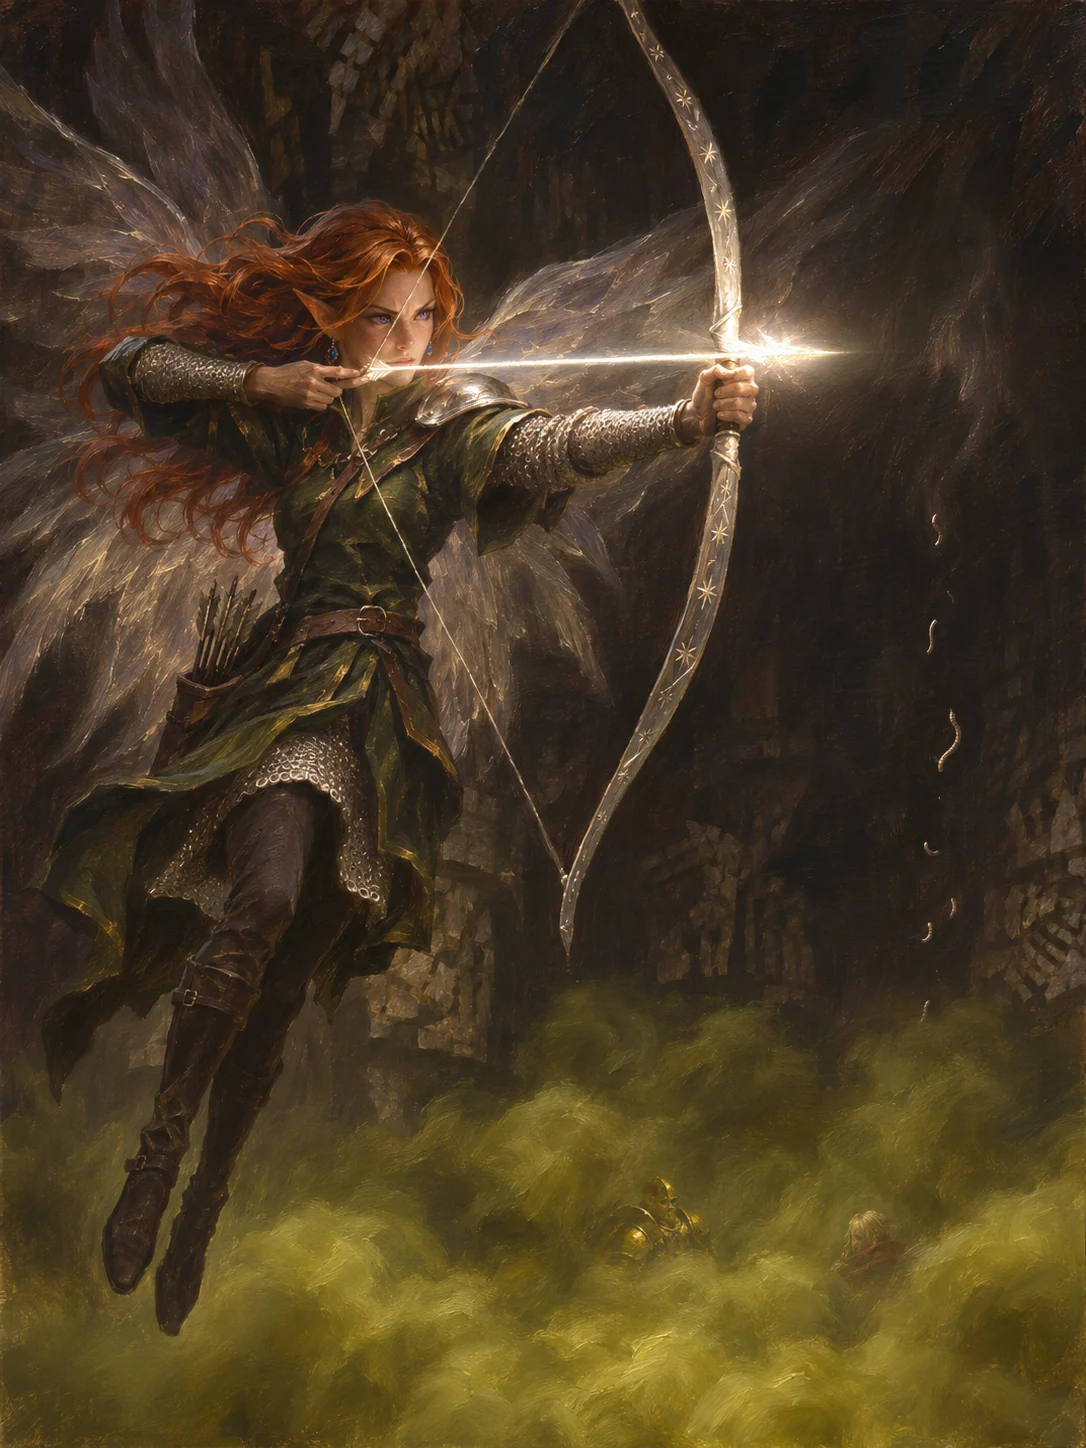
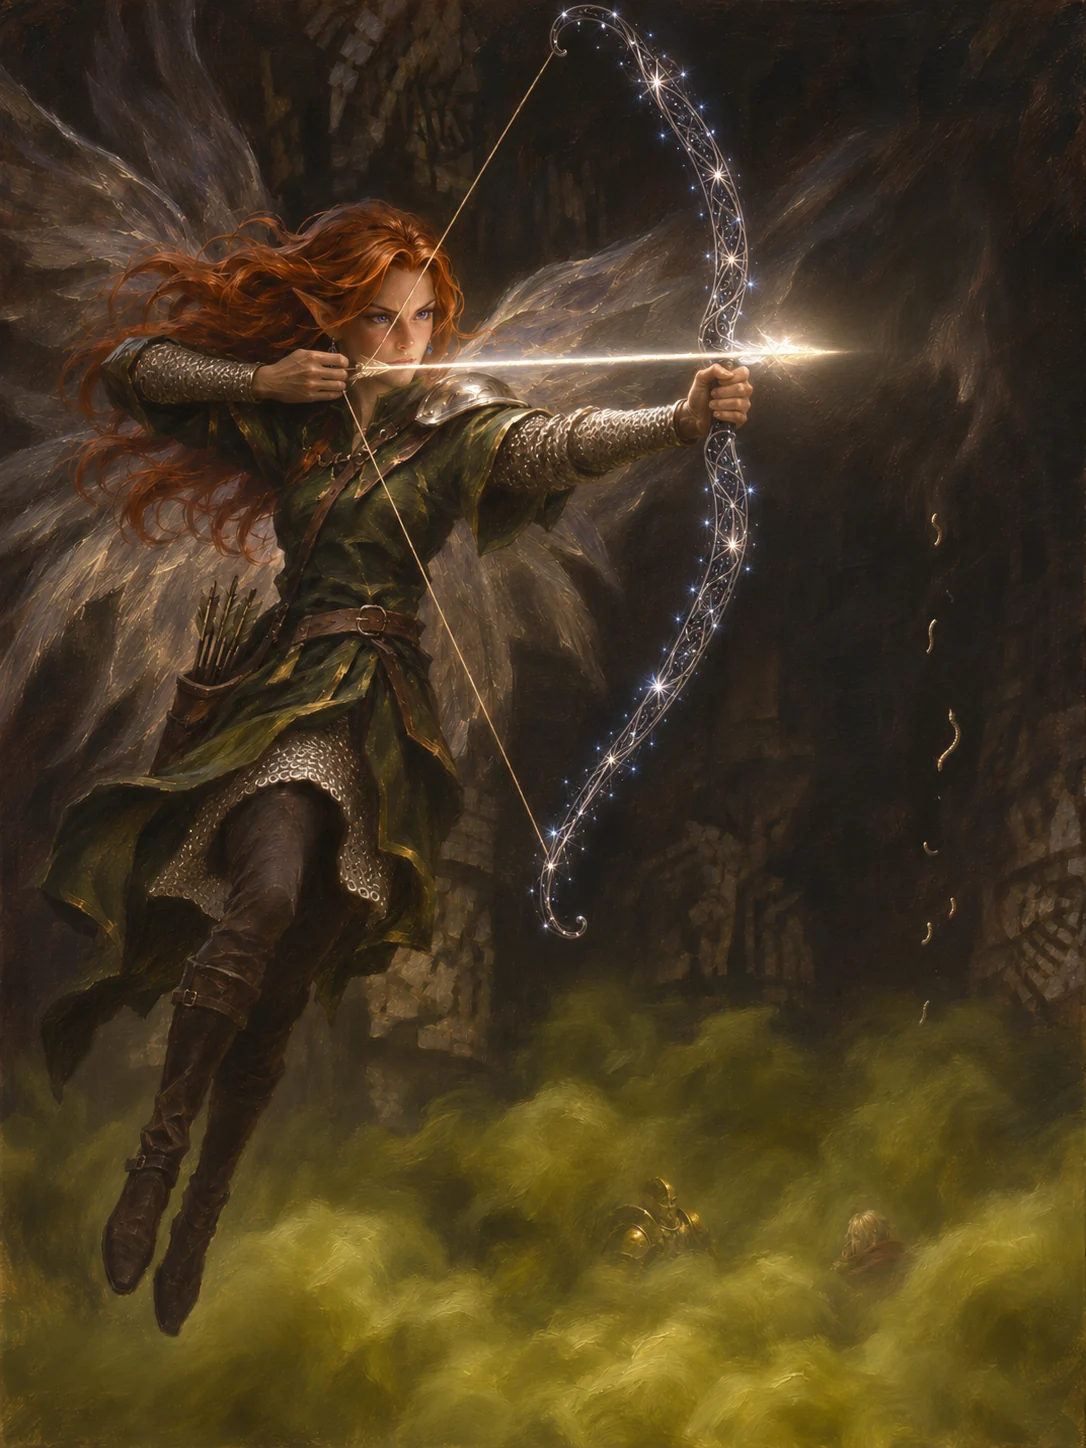
Re-render Lupenor's tracer shot with the canonical star-bow and a five-fingered draw hand; record the star-bow in CANON

diff --git a/characters/CANON.md b/characters/CANON.md
@@ -40,7 +40,7 @@ kit guide disagree, the kit guide wins.
 | **Chyrrik** | [`chirrik.webp`](chirrik.webp) | The Company | Mongrelman scout, **female (she/her)**; reptilian-avian head with a hooked dark beak, reddish-brown hair in a high ponytail; heavily scaled digitigrade legs with taloned feet, **and a long scaled tail**; **human-like pinkish hands** contrasting the scaled limbs; grey-green hooded travel leathers, wrapped forearms; long horn bow and a quiver of black-fletched arrows. |
 | **Cornelia Dewfoot** | [`cornelia.webp`](cornelia.webp) | Rabiah's Redeemers | Small fey-featured druid; long wavy blonde hair with small braids and a leaf tucked in, pointed ears, **blue eyes**, freckles. Tattered layered green leaf-like druid garb and mossy cloak, beaded necklace, belt of pouches with a small animal skull; carries an oversized scythe with a **vine-wrapped wooden haft**; crescent moon overhead. **She reads as a CHILD — render her youthful and never sexualized: no adult proportions, no revealing or form-fitting clothing.** |
 | **Elara Dawnstrider** | [`elara-dawnstrider.webp`](elara-dawnstrider.webp) | Harlock's Order | Human paladin woman; long wavy brown-auburn hair, gold drop earrings; polished **silver plate with gold filigree, one oversized layered spiked pauldron on her left shoulder**. **Her armour is SPIKY THROUGHOUT, not just at that pauldron — spikes on the upper arms (rerebraces), the lower arms (vambraces), the knees (poleyns), and the gauntlets.** *(Corrected by Matt, Aug 2026, on the Book III Ch. I art: prompts that named only the shoulder pauldron came back with otherwise smooth, plain plate.)* She holds an ornate polearm with a silver-and-gold winged head; sunlit citadel behind. **Full plate cuirass covering the torso — never bared midriff or bikini-plate.** |
-| **Arueshalae** | [`arueshalae.webp`](arueshalae.webp) | Allies & Powers | Succubus; short tousled black hair, curved dark horns, pointed ears, freckled; dark membranous wings. **Dressed in practical brown leather adventuring armor — a high-collared, buckled, long-sleeved leather jacket over leather trousers and tall buckled boots. FULLY COVERED, modest and battle-worn; never revealing, never a bikini/harness/bare midriff.** Tattoos show only at the open collar of her throat. Storm-lit. Style exemplar: [`../images/arueshalae.webp`](../images/arueshalae.webp). |
+| **Arueshalae** | [`arueshalae.webp`](arueshalae.webp) | Allies & Powers | Succubus; short tousled black hair, curved dark horns, pointed ears, freckled; dark membranous wings. **Dressed in practical brown leather adventuring armor — a high-collared, buckled, long-sleeved leather jacket over leather trousers and tall buckled boots. FULLY COVERED, modest and battle-worn; never revealing, never a bikini/harness/bare midriff.** Tattoos show only at the open collar of her throat. Storm-lit. Style exemplar: [`../images/arueshalae.webp`](../images/arueshalae.webp).  **Her STAR-BOW** — canonical rendering in [`../images/arueshalae.webp`](../images/arueshalae.webp) (the opening plate of *The Bell of Mercy*); crop that bow and attach it as a reference whenever it appears, including in **Lupenor**'s hands after *Trade me bows*. A graceful **recurve** with long sweeping limbs and **scrolled, curling silver tips**; the body is **dark and translucent, like a sliver of night sky**, worked with an open **lattice of silver filigree** and **studded along its whole length with tiny sparkling white-and-blue stars**; a thin pale-gold string. **NOT pale wood, NOT a plain white or silver bow** — that drift happened once (Nov 2026). Its arrows burn star-white, like little suns. |
 | **Iomedae** | [`iomedae.webp`](iomedae.webp) | Allies & Powers | The Inheritor, goddess of righteous valor. Human woman; **short black hair in a chin-length bob**, pale skin, dark eyes. **She emits a subtle divine radiance** — a soft glow clinging to her person that lights the air around her. Never a halo ring, glowing eyes, beams, or rays. **Mirror-polished silver-white full plate with fine gold edging**, a **rich clean crimson cloak**, a **silver-white kite shield**, and a long straight **longsword held point-down, both hands resting on the pommel**. **Her device is IOMEDAE'S OWN: a vertical sword, point down, in front of a blazing sun — hilt, pommel and straight crossguard at the TOP, blade hanging below, tip at the BOTTOM — in engraved raised gold, not glowing.** *(The portrait shows a bare gold eight-pointed starburst with no sword on her chest and shield; that is legacy drift from before the device was settled, exactly as on [Irabeth](irabeth.webp). **Render the sword-and-sun in all new art** — take her face from the portrait, her device from this row. Established: [`../images/the-inheritors-kiss.webp`](../images/the-inheritors-kiss.webp), Aug 2026.)* **Her gear is ALWAYS immaculate — no dent, scratch, smudge, soot, rust, tatter, or battle damage, ever, however ruined the setting around her.** **Only her FACE bears scars — the remnant of her mortal life:** a pale scar down her left cheek, weathered and lined, a woman of middle years carrying the gravity of ages. Never a smooth, young, unmarked face. **Fully covering plate — gorget, pauldrons, vambraces, gauntlets, faulds, and fully armored legs. Never bare thighs, bare midriff, a contoured/anatomical breastplate, or bikini-plate.** *(Fresh house-style render; the original 188×268 source thumbnail was low-resolution, young-faced, and bare-legged, and is superseded.)* |
 | **Horgus Gwerm** | [`horgus-gwerm.webp`](horgus-gwerm.webp) | Allies & Powers | Human man in his early sixties; a wealthy **Kenabres** merchant-noble, hauled out of the caverns beneath the fallen city, and later the crusade's blunt, unsentimental quartermaster at **Drezen**. **Heavy-set and well-fed**, with a broad, jowly, fleshy face; a strong prominent nose; a downturned mouth with deep lines running to its corners; hooded eyes under a heavy brow; a thick neck and a soft jaw. Clean-shaven, pale indoor complexion, **grey-blue eyes**. **SILVER-GREY HAIR, receding at the temples to a peak at the centre, thinning on top, short and swept straight back.** **He is HUMAN — small rounded human ears, NOT pointed** *(his ear reads faintly pointed in the dim Book I render; that is lighting and drift, and the portrait is the authority).* **Dress:** expensive, heavy and sober — a long **deep oxblood-red** wool coat and fur-trimmed mantle over a high-necked charcoal doublet, a heavy round silver clasp at the throat, plain gold rings. **NO armour, NO weapon, NO holy symbol, no crown or coronet, nothing gaudy.** **His prop is a thick worn LEDGER** held closed against his chest — he is the man who counts the wagons, and it should read as his weapon. **Bearing: upright, chin lifted, composed, faintly impatient — sour, shrewd and unimpressed, a man used to being obeyed. Never a sneering cartoon villain, never comic, and never the huddled frightened figure of the caves** — *that is `a-safe-haven-restored`, his worst hour, and the only reason it looks that way; from Book II on he is every inch the nobleman.* |
 | **Sosiel Vaenic** | [`sosiel-vaenic.webp`](sosiel-vaenic.webp) | Allies & Powers | Human man, mid-thirties; priest of **Shelyn** and the crusade's chaplain, later keeper of Drezen's multi-denominational temple. **Dark brown skin**, close-cropped black hair and a neat short black beard, dark brown eyes, high cheekbones; broad-shouldered and strongly built — *"dark, toned, and handsomely made,"* which is the chronicle's own phrase for him. Small rounded human ears. **He is a PAINTER, and it shows on him: hands and fingernails stained with old paint in several colours, worked into the skin and never scrubbed out**, a smear on a forearm or jaw, a worn wooden brush carried like a pen, and a battered satchel of brushes, pigment jars and rolled papers at his hip. Simple layered travelling robes over a padded gambeson in dove-greys and warm neutrals, paint-flecked and travel-worn. **His holy symbol is a SONGBIRD WITH A LONG MULTICOLOURED TAIL FEATHER** in silver and enamel — **never a sunburst, never a sun, never a sword**; the chronicle already carries Sarenrae's bare sun and Iomedae's sword-and-sun, and a third sun-device would collapse all three faiths together. **Shelyn's glaive** rides across his back, carried almost as an afterthought. No plate, no mail, no gold. *The paint and the enamel are the only saturated colour on him — hold that.* **Lover of [Aron Kir](aron-kir.webp).** |
